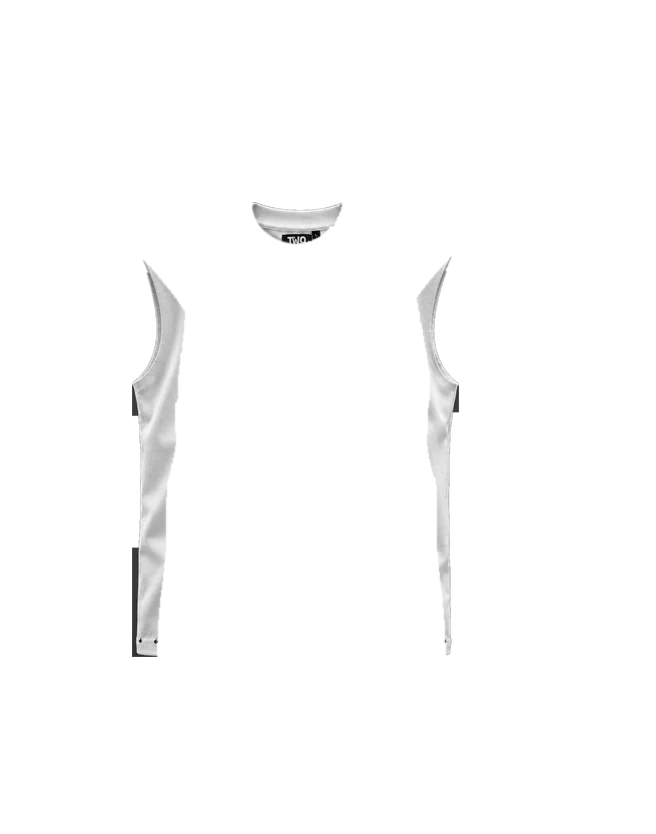
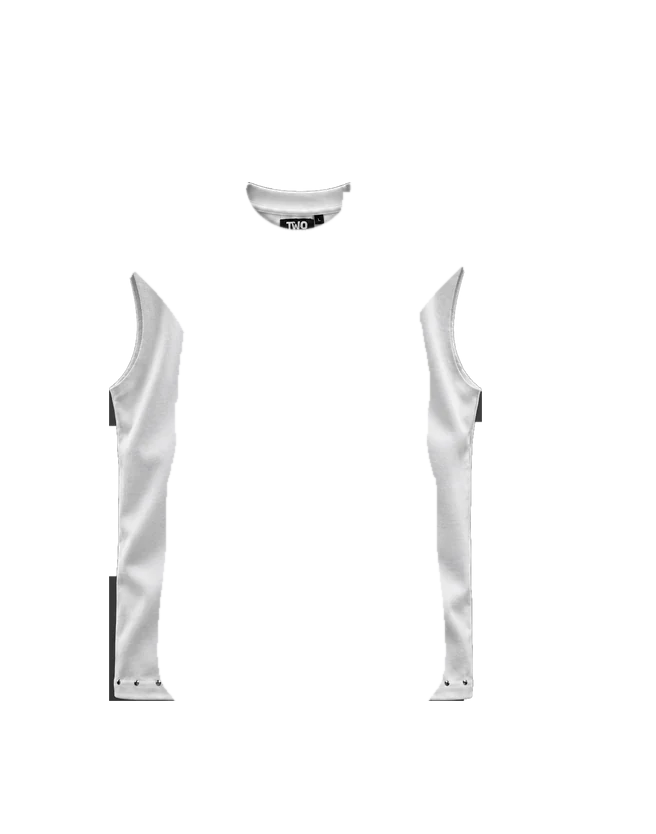
Sit the sleeveless pieces higher and larger
They now cover the model's shoulders and vest straps, and no fabric
hangs outside his arms below the armholes.

Changed region(s): [[0.1524, 0.3118, 0.3049, 0.8417], [0.6402, 0.3118, 0.7317, 0.8417], [0.3659, 0.2182, 0.5488, 0.3118]]

diff --git a/index.html b/index.html
@@ -64,24 +64,24 @@
 
       <div class="jc__carousel">
         <div class="jc__item">
-          <img src="jacket-carousel/assets/tee1.webp?v=5" alt="Piece 01">
-          <img class="jc__back" src="jacket-carousel/assets/tee1-back.webp?v=5" alt="" aria-hidden="true">
+          <img src="jacket-carousel/assets/tee1.webp?v=6" alt="Piece 01">
+          <img class="jc__back" src="jacket-carousel/assets/tee1-back.webp?v=6" alt="" aria-hidden="true">
         </div>
         <div class="jc__item">
-          <img src="jacket-carousel/assets/tee2.webp?v=5" alt="Piece 02">
-          <img class="jc__back" src="jacket-carousel/assets/tee2-back.webp?v=5" alt="" aria-hidden="true">
+          <img src="jacket-carousel/assets/tee2.webp?v=6" alt="Piece 02">
+          <img class="jc__back" src="jacket-carousel/assets/tee2-back.webp?v=6" alt="" aria-hidden="true">
         </div>
         <div class="jc__item">
-          <img src="jacket-carousel/assets/tee3.webp?v=5" alt="Piece 03">
-          <img class="jc__back" src="jacket-carousel/assets/tee3-back.webp?v=5" alt="" aria-hidden="true">
+          <img src="jacket-carousel/assets/tee3.webp?v=6" alt="Piece 03">
+          <img class="jc__back" src="jacket-carousel/assets/tee3-back.webp?v=6" alt="" aria-hidden="true">
         </div>
         <div class="jc__item">
-          <img src="jacket-carousel/assets/tee4.webp?v=5" alt="Piece 04">
-          <img class="jc__back" src="jacket-carousel/assets/tee4-back.webp?v=5" alt="" aria-hidden="true">
+          <img src="jacket-carousel/assets/tee4.webp?v=6" alt="Piece 04">
+          <img class="jc__back" src="jacket-carousel/assets/tee4-back.webp?v=6" alt="" aria-hidden="true">
         </div>
         <div class="jc__item">
-          <img src="jacket-carousel/assets/tee5.webp?v=5" alt="Piece 05">
-          <img class="jc__back" src="jacket-carousel/assets/tee5-back.webp?v=5" alt="" aria-hidden="true">
+          <img src="jacket-carousel/assets/tee5.webp?v=6" alt="Piece 05">
+          <img class="jc__back" src="jacket-carousel/assets/tee5-back.webp?v=6" alt="" aria-hidden="true">
         </div>
       </div>
 

diff --git a/jacket-carousel/section.html b/jacket-carousel/section.html
@@ -17,24 +17,24 @@
 
     <div class="jc__carousel">
       <div class="jc__item">
-        <img src="jacket-carousel/assets/tee1.webp?v=5" alt="Piece 01">
-        <img class="jc__back" src="jacket-carousel/assets/tee1-back.webp?v=5" alt="" aria-hidden="true">
+        <img src="jacket-carousel/assets/tee1.webp?v=6" alt="Piece 01">
+        <img class="jc__back" src="jacket-carousel/assets/tee1-back.webp?v=6" alt="" aria-hidden="true">
       </div>
       <div class="jc__item">
-        <img src="jacket-carousel/assets/tee2.webp?v=5" alt="Piece 02">
-        <img class="jc__back" src="jacket-carousel/assets/tee2-back.webp?v=5" alt="" aria-hidden="true">
+        <img src="jacket-carousel/assets/tee2.webp?v=6" alt="Piece 02">
+        <img class="jc__back" src="jacket-carousel/assets/tee2-back.webp?v=6" alt="" aria-hidden="true">
       </div>
       <div class="jc__item">
-        <img src="jacket-carousel/assets/tee3.webp?v=5" alt="Piece 03">
-        <img class="jc__back" src="jacket-carousel/assets/tee3-back.webp?v=5" alt="" aria-hidden="true">
+        <img src="jacket-carousel/assets/tee3.webp?v=6" alt="Piece 03">
+        <img class="jc__back" src="jacket-carousel/assets/tee3-back.webp?v=6" alt="" aria-hidden="true">
       </div>
       <div class="jc__item">
-        <img src="jacket-carousel/assets/tee4.webp?v=5" alt="Piece 04">
-        <img class="jc__back" src="jacket-carousel/assets/tee4-back.webp?v=5" alt="" aria-hidden="true">
+        <img src="jacket-carousel/assets/tee4.webp?v=6" alt="Piece 04">
+        <img class="jc__back" src="jacket-carousel/assets/tee4-back.webp?v=6" alt="" aria-hidden="true">
       </div>
       <div class="jc__item">
-        <img src="jacket-carousel/assets/tee5.webp?v=5" alt="Piece 05">
-        <img class="jc__back" src="jacket-carousel/assets/tee5-back.webp?v=5" alt="" aria-hidden="true">
+        <img src="jacket-carousel/assets/tee5.webp?v=6" alt="Piece 05">
+        <img class="jc__back" src="jacket-carousel/assets/tee5-back.webp?v=6" alt="" aria-hidden="true">
       </div>
     </div>
 
